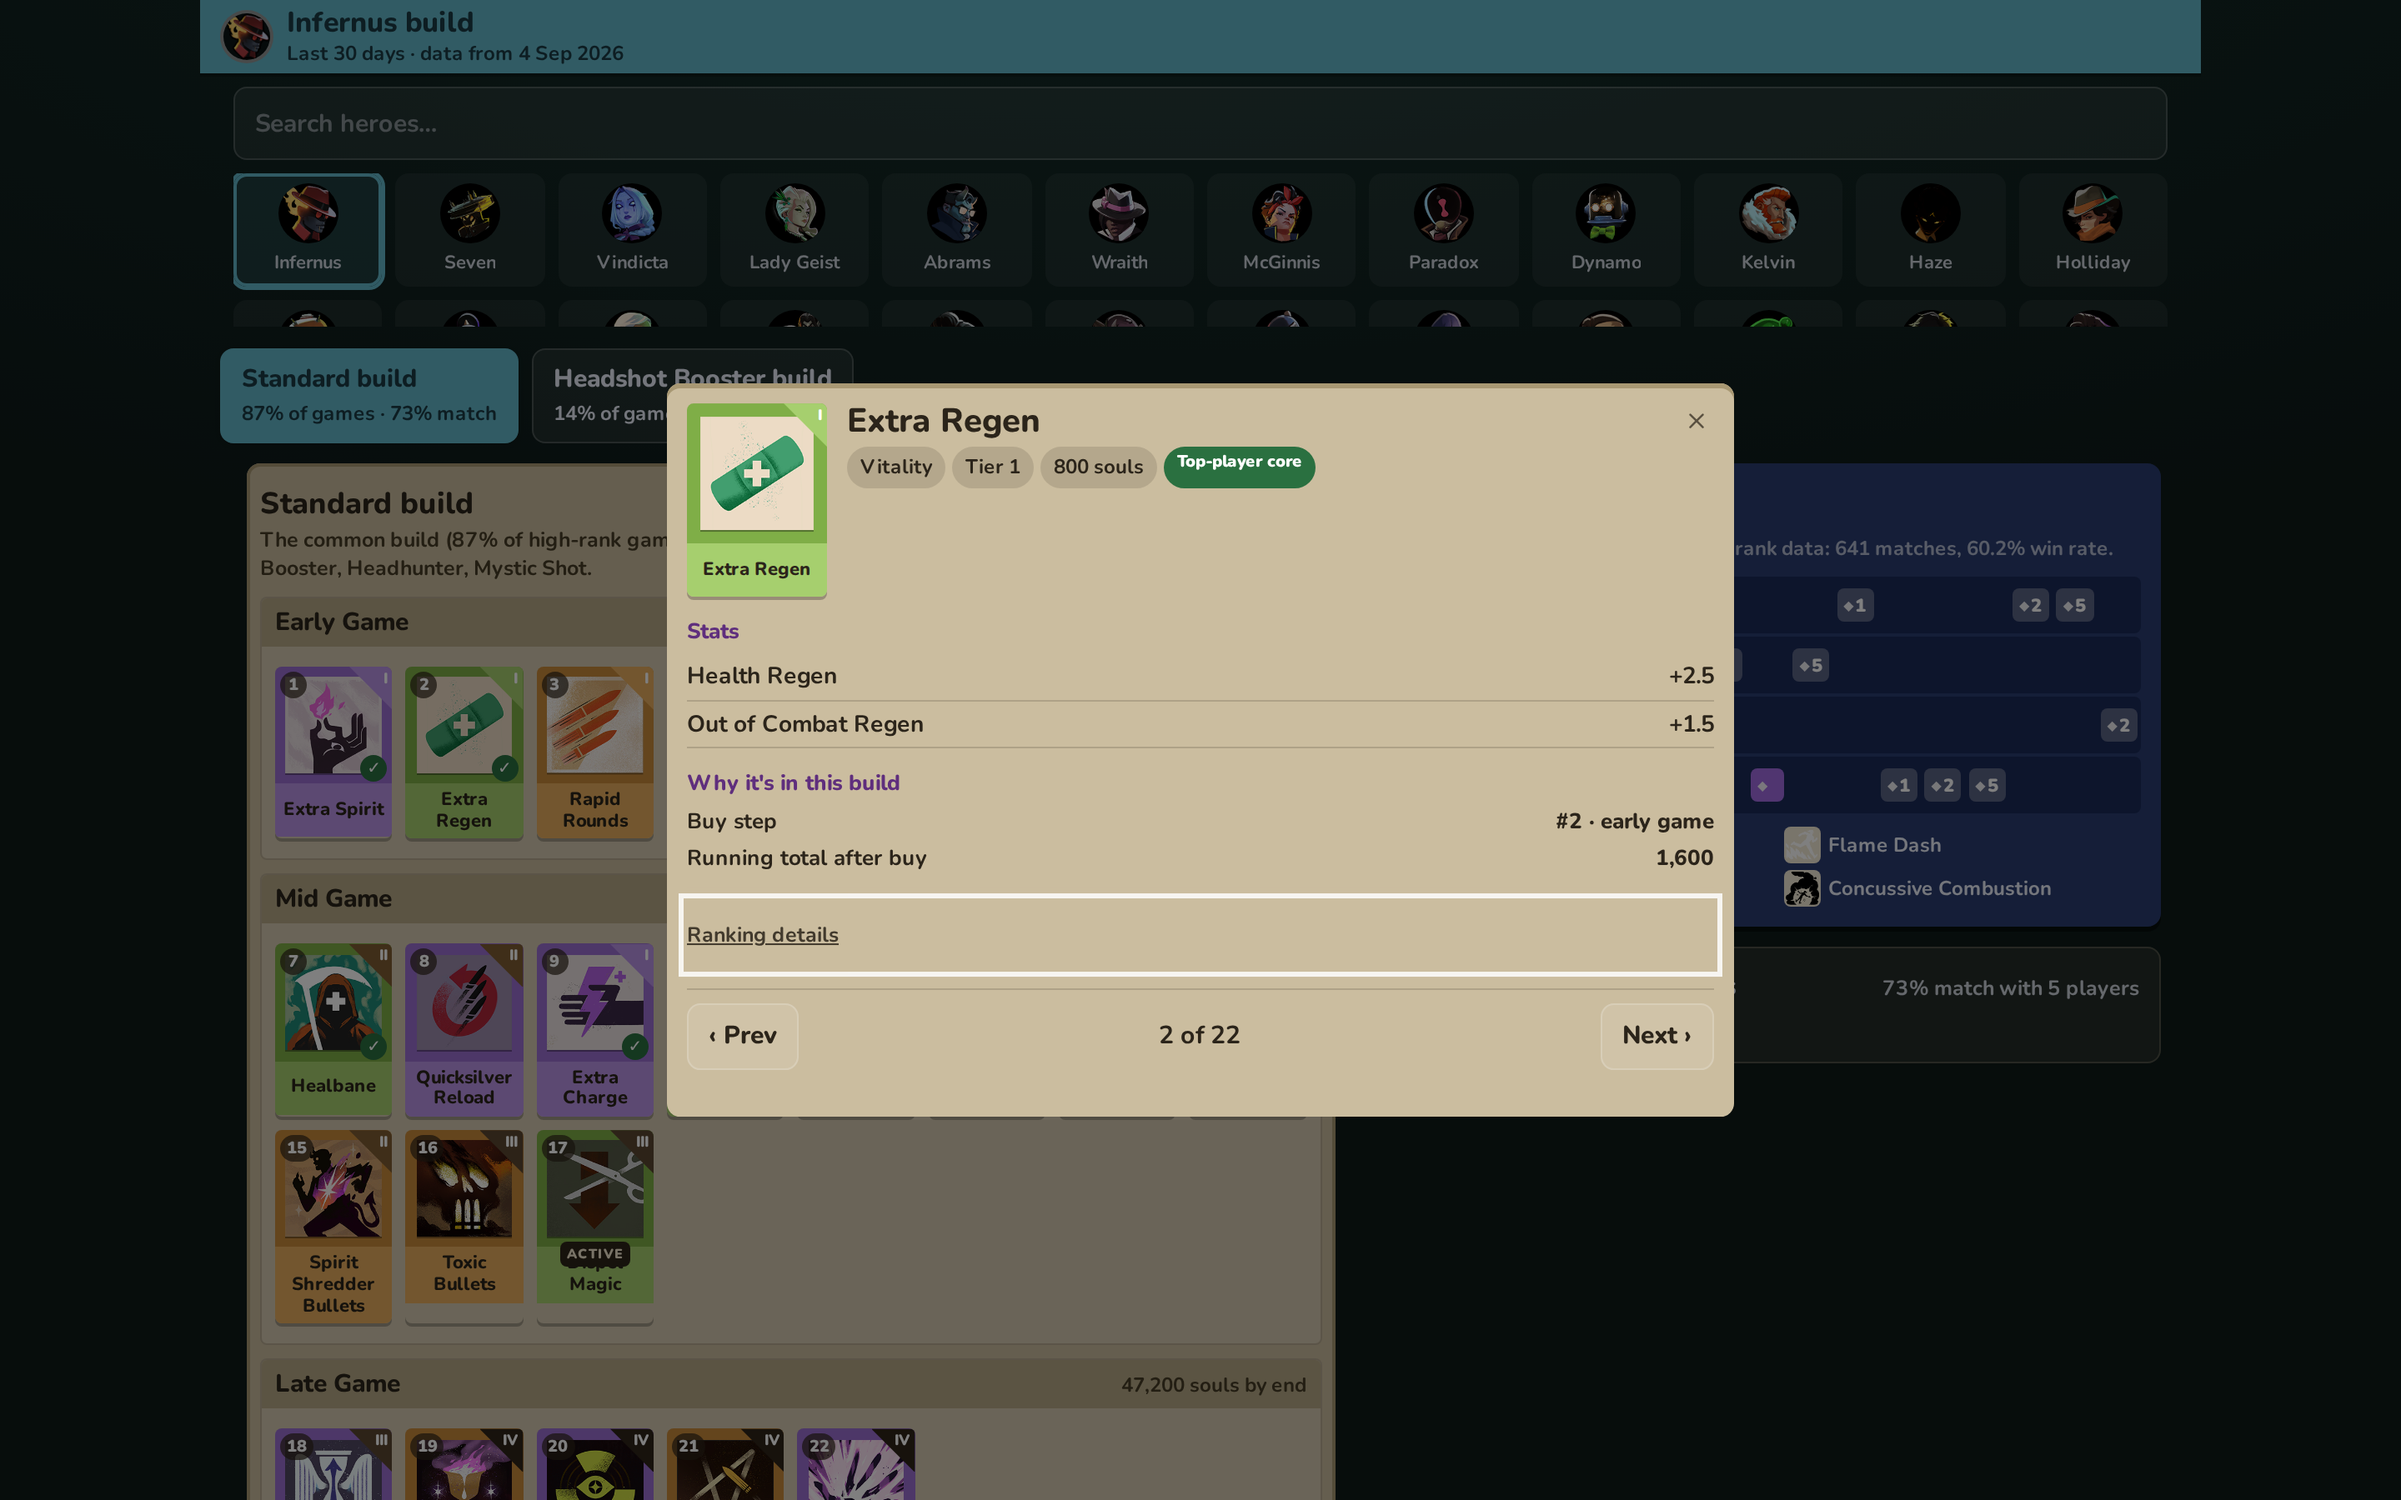
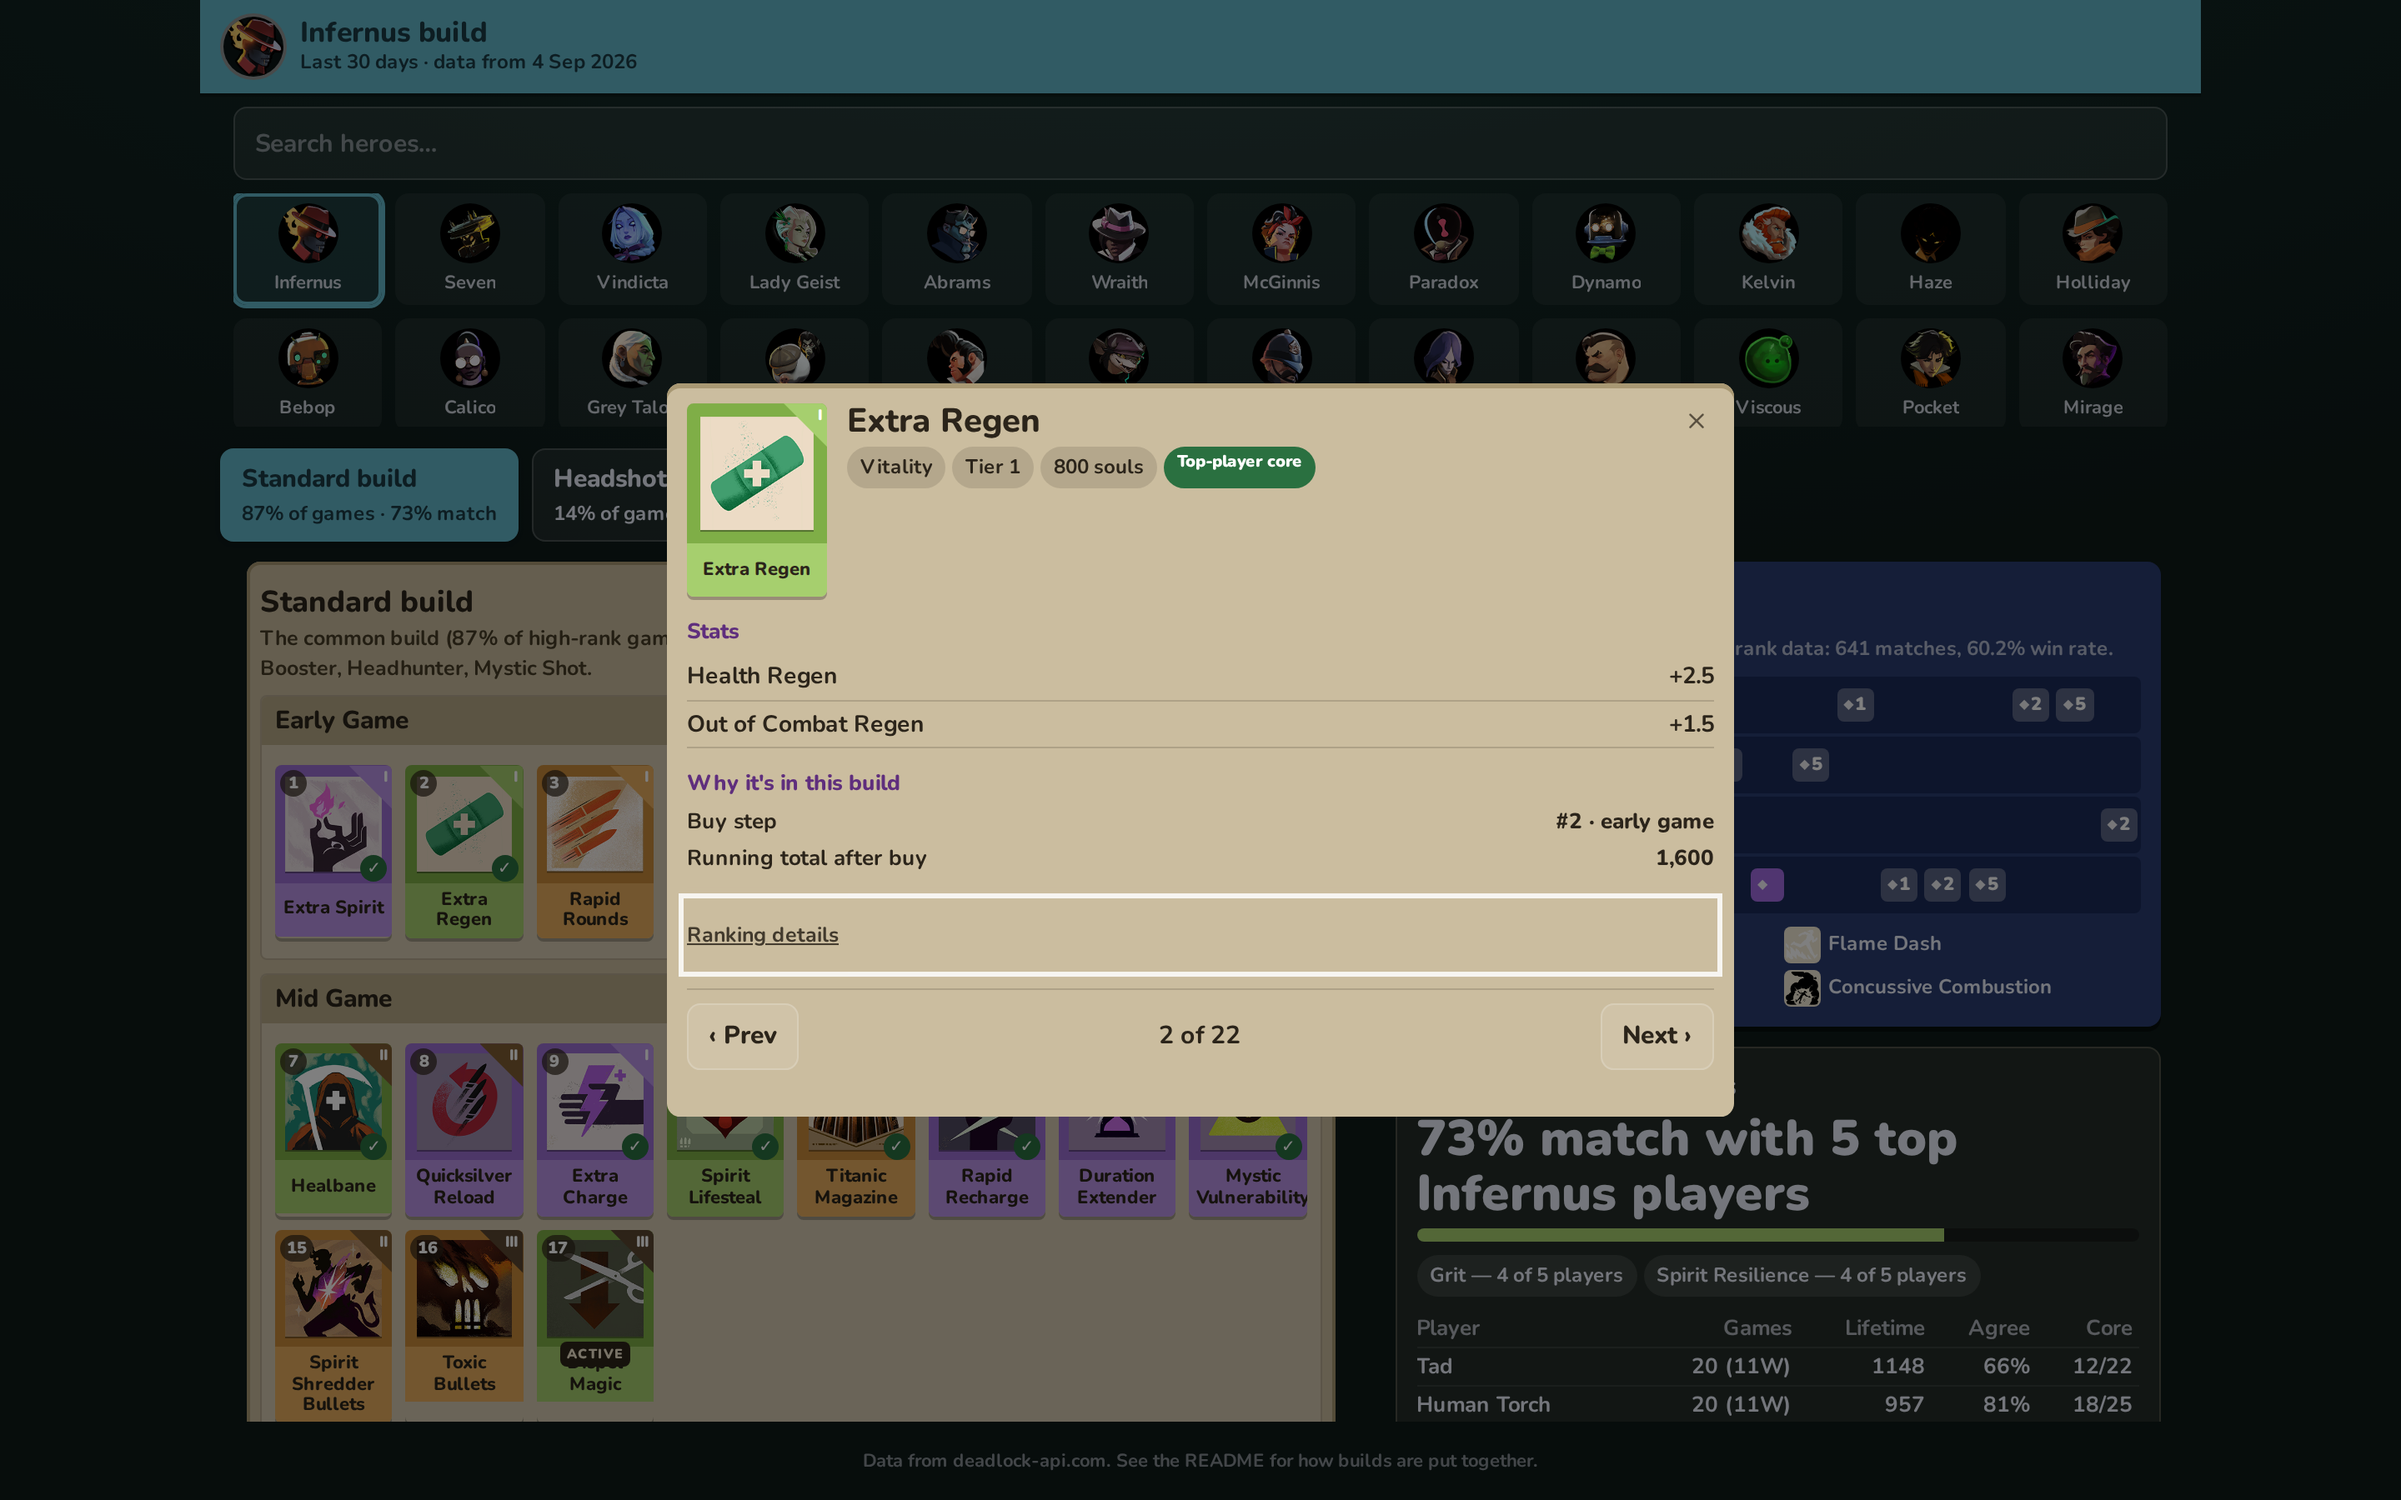
Revert "Trim desktop chrome, collapse validation panel to save room for the build"
This reverts commit add26f47b0ba7df35cc23943b927cfdbbf8cfb21.

diff --git a/src/components/BuildView.tsx b/src/components/BuildView.tsx
@@ -151,15 +151,17 @@ export function BuildView({
             </div>
             <div className="source">
               {build.population.kind === 'top'
-                ? `${build.population.matches.toLocaleString()} high-rank matches`
-                : `${build.population.matches.toLocaleString()} matches, all ranks`}
-              {hasCore && (
-                <>
-                  {' · '}
-                  <i className="legend-dot-core" /> core for {reps === 1 ? `${panel!.players[0].set.player}` : `${need} of ${reps} top players`}
-                </>
-              )}
+                ? `From ${build.population.matches.toLocaleString()} high-rank matches (Phantom and above).`
+                : `From ${build.population.matches.toLocaleString()} matches, all ranks (not enough high-rank games for this hero).`}
             </div>
+            {hasCore && (
+              <div className="legend">
+                <span>
+                  <i className="legend-dot-core" /> core for {reps === 1 ? `${panel!.players[0].set.player}` : `${need} of ${reps} top players`}
+                </span>
+                <span>numbers are buy order</span>
+              </div>
+            )}
           </div>
         </div>
 
@@ -205,67 +207,63 @@ export function BuildView({
           </div>
 
           {panel && reps > 0 && (
-            <Collapsible className="panel">
-              <CollapsibleTrigger className="panel-trigger">
-                <h2>Validation vs. top players</h2>
-                <span className="panel-trigger-stat">
-                  {(panel.agreement * 100).toFixed(0)}% match with {reps} {reps === 1 ? 'player' : 'players'}
-                </span>
-              </CollapsibleTrigger>
-              <CollapsibleContent>
-                <div className="panel-summary">
-                  <div className="meter">
-                    <div style={{ width: `${panel.agreement * 100}%` }} />
+            <div className="panel">
+              <h2>Validation vs. top players</h2>
+              <div className="panel-summary">
+                <div className="big">
+                  {(panel.agreement * 100).toFixed(0)}% match with {reps} top {heroName} {reps === 1 ? 'player' : 'players'}
+                </div>
+                <div className="meter">
+                  <div style={{ width: `${panel.agreement * 100}%` }} />
+                </div>
+                {panel.missingConsensus.length > 0 && (
+                  <div className="chips" style={{ marginTop: 8 }}>
+                    {panel.missingConsensus.map((c) => (
+                      <span className="chip" key={c.item.id} title={`in ${(c.frequency * 100).toFixed(0)}% of their games on average`}>
+                        {c.item.name} — {c.reps} of {reps} players
+                      </span>
+                    ))}
                   </div>
-                  {panel.missingConsensus.length > 0 && (
-                    <div className="chips" style={{ marginTop: 8 }}>
-                      {panel.missingConsensus.map((c) => (
-                        <span className="chip" key={c.item.id} title={`in ${(c.frequency * 100).toFixed(0)}% of their games on average`}>
-                          {c.item.name} — {c.reps} of {reps} players
-                        </span>
-                      ))}
-                    </div>
-                  )}
-                </div>
-                <div style={{ overflowX: 'auto', marginTop: 8 }}>
-                  <table className="panel-table">
-                    <thead>
-                      <tr>
-                        <th>Player</th>
-                        <th title="matches in the sample (wins)">Games</th>
-                        <th title="lifetime matches on this hero">Lifetime</th>
-                        <th>Agree</th>
-                        <th title="core items in build / core items">Core</th>
+                )}
+              </div>
+              <div style={{ overflowX: 'auto', marginTop: 8 }}>
+                <table className="panel-table">
+                  <thead>
+                    <tr>
+                      <th>Player</th>
+                      <th title="matches in the sample (wins)">Games</th>
+                      <th title="lifetime matches on this hero">Lifetime</th>
+                      <th>Agree</th>
+                      <th title="core items in build / core items">Core</th>
+                    </tr>
+                  </thead>
+                  <tbody>
+                    {panel.players.map((p) => (
+                      <tr key={p.set.account_id}>
+                        <td>{p.set.player}</td>
+                        <td>
+                          {p.core.matches} ({p.core.wins}W)
+                        </td>
+                        <td>{p.set.selection?.total_hero_matches ?? '—'}</td>
+                        <td>{(p.validation.agreement * 100).toFixed(0)}%</td>
+                        <td>
+                          {p.validation.sharedCount}/{p.core.core.length}
+                        </td>
                       </tr>
-                    </thead>
-                    <tbody>
-                      {panel.players.map((p) => (
-                        <tr key={p.set.account_id}>
-                          <td>{p.set.player}</td>
-                          <td>
-                            {p.core.matches} ({p.core.wins}W)
-                          </td>
-                          <td>{p.set.selection?.total_hero_matches ?? '—'}</td>
-                          <td>{(p.validation.agreement * 100).toFixed(0)}%</td>
-                          <td>
-                            {p.validation.sharedCount}/{p.core.core.length}
-                          </td>
-                        </tr>
-                      ))}
-                    </tbody>
-                  </table>
-                </div>
-                <Collapsible className="disclosure">
-                  <CollapsibleTrigger className="disclosure-trigger">How this is measured</CollapsibleTrigger>
-                  <CollapsibleContent className="disclosure-content">
-                    A player's core set = items bought in 30% or more of their sampled matchmaking games (wins count 1.5× as much); items bought less often are
-                    one-off experiments and are left out. Match percentage is the average over players
-                    {reps > 1 ? ', weighted by how representative each player is' : ''}. None of this data is used to build the recommendation itself — it only
-                    checks the result afterward.
-                  </CollapsibleContent>
-                </Collapsible>
-              </CollapsibleContent>
-            </Collapsible>
+                    ))}
+                  </tbody>
+                </table>
+              </div>
+              <Collapsible className="disclosure">
+                <CollapsibleTrigger className="disclosure-trigger">How this is measured</CollapsibleTrigger>
+                <CollapsibleContent className="disclosure-content">
+                  A player's core set = items bought in 30% or more of their sampled matchmaking games (wins count 1.5× as much); items bought less often are
+                  one-off experiments and are left out. Match percentage is the average over players
+                  {reps > 1 ? ', weighted by how representative each player is' : ''}. None of this data is used to build the recommendation itself — it only
+                  checks the result afterward.
+                </CollapsibleContent>
+              </Collapsible>
+            </div>
           )}
         </div>
       </div>

diff --git a/src/index.css b/src/index.css
@@ -574,13 +574,30 @@ h3 {
   font-size: 12px;
   color: var(--ink-soft);
 }
-.legend-dot-core {
-  width: 8px;
-  height: 8px;
+.legend {
+  display: flex;
+  flex-wrap: wrap;
+  gap: 8px;
+  margin-top: 8px;
+  font-size: 12px;
+  color: var(--ink-soft);
+}
+.legend span {
+  display: inline-flex;
+  align-items: center;
+  gap: 4px;
+}
+.legend i {
+  width: 12px;
+  height: 12px;
   border-radius: 50%;
   display: inline-block;
-  vertical-align: middle;
-  margin-bottom: 2px;
+}
+.legend-dot-core {
+  width: 12px;
+  height: 12px;
+  border-radius: 50%;
+  display: inline-block;
   background: var(--good);
 }
 
@@ -681,24 +698,6 @@ h3 {
   font-size: 16px;
   margin-bottom: 4px;
 }
-.panel-trigger {
-  display: flex;
-  align-items: baseline;
-  justify-content: space-between;
-  gap: 8px;
-  width: 100%;
-  text-align: left;
-  min-height: 44px;
-}
-.panel-trigger h2 {
-  margin-bottom: 0;
-}
-.panel-trigger-stat {
-  font-size: 12.5px;
-  font-weight: 700;
-  opacity: 0.85;
-  white-space: nowrap;
-}
 .panel .muted {
   font-size: 12px;
   opacity: 0.7;
@@ -752,7 +751,6 @@ h3 {
   text-align: right;
 }
 .panel-summary {
-  margin-top: 8px;
   margin-bottom: 4px;
 }
 .disclosure {
@@ -1003,17 +1001,7 @@ footer {
   }
   .hero-picker-desktop .hero-grid {
     grid-template-columns: repeat(auto-fill, minmax(88px, 1fr));
-    max-height: 92px;
-  }
-  .app-header {
-    padding: 4px 12px;
-  }
-  .app-header img {
-    width: 32px;
-    height: 32px;
-  }
-  footer {
-    display: none;
+    max-height: 140px;
   }
   .layout {
     display: grid;
